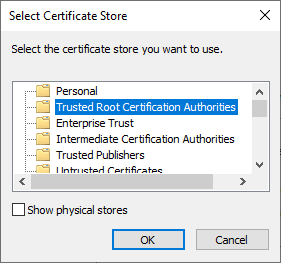
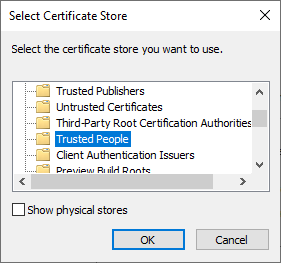
Updated install instructions to list Trusted People

Changed region(s): [[0.1708, 0.3042, 0.968, 0.6692]]

diff --git a/docs/install/index.md b/docs/install/index.md
@@ -25,8 +25,11 @@ _NOTE: Only install and trust certificates from sources you trust_
 
 6. In the `Select Certificate Store` popup select `Trusted People` and then click `OK`. This will take you back to the screen displayed in step 5, click `Next`.
 
-7. Select `Finish` to install the certificate.
+![Select Certificate Store window showing Trusted People is selected](https://beeradmoore.github.io/dlss-swapper/images/install/certificate_4.png)
 
+7. Your final certifcate import summary should look like this. Select `Finish` to install the certificate.
+
+![Certificate Import Wizard showing the certificate store is selected by the user, is Trusted People, and Content is Certificate](https://beeradmoore.github.io/dlss-swapper/images/install/certificate_5.png)
 
 
 ### Downloading Installer
